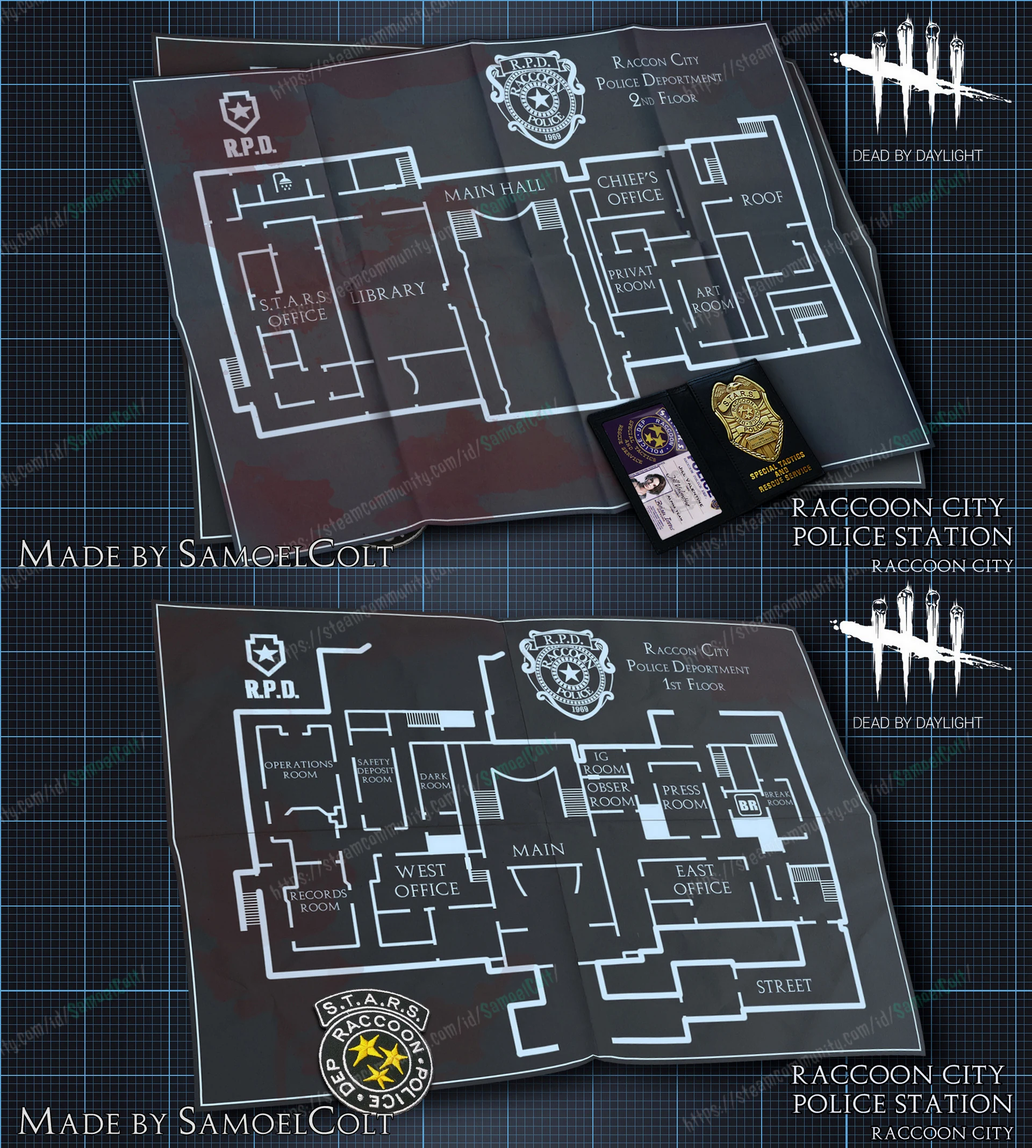
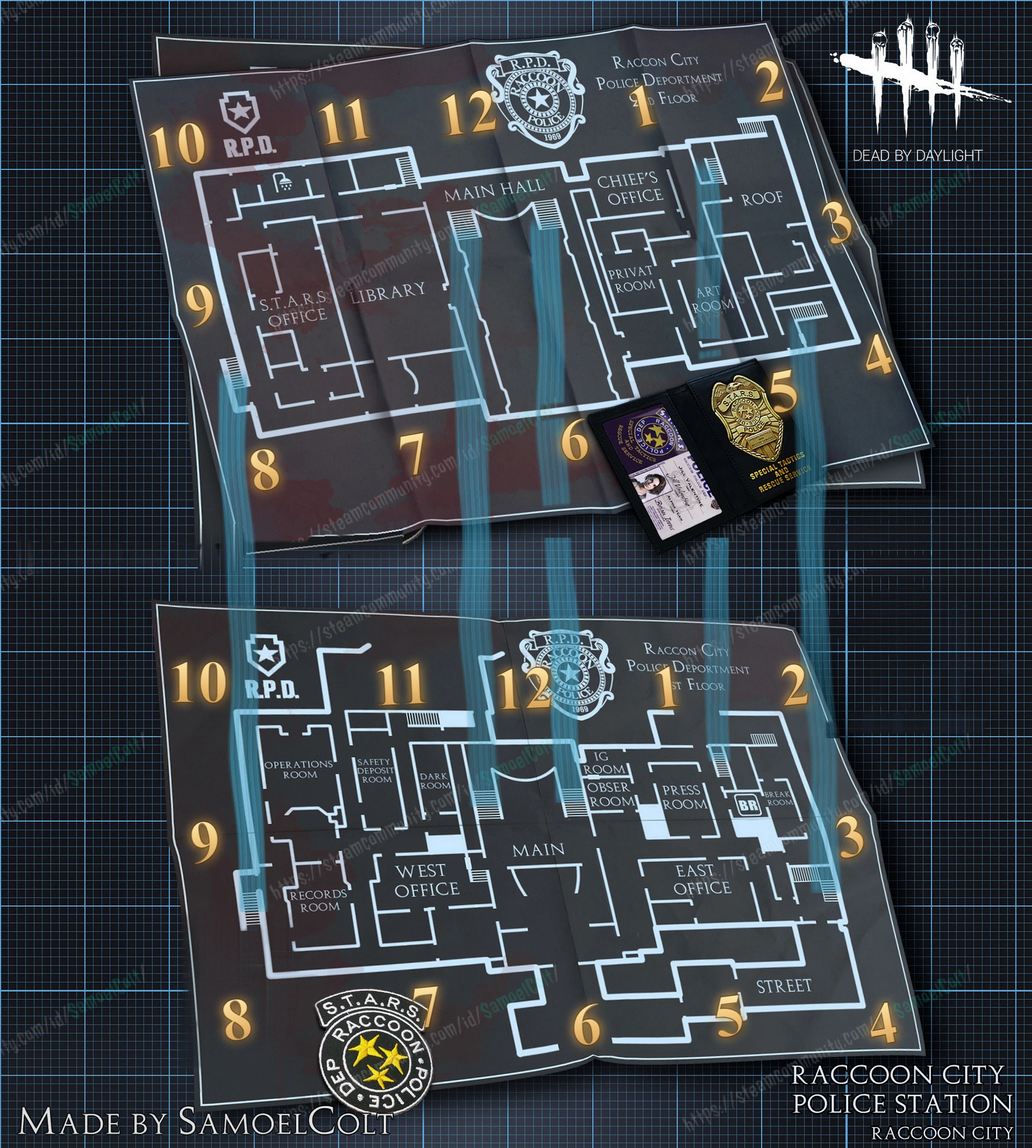
Update RPD combined sheet to numbered version

diff --git a/public/maps.js b/public/maps.js
@@ -1589,7 +1589,7 @@ window.DBD_MAPS = [
     "name": "Raccoon City Police Station (Both Floors)",
     "path": "photo/SamoelColt/Raccoon City/Raccoon City Police Station (Both Floors).webp",
     "type": "webp",
-    "bytes": 566150
+    "bytes": 703770
   },
   {
     "artist": "SamoelColt",
